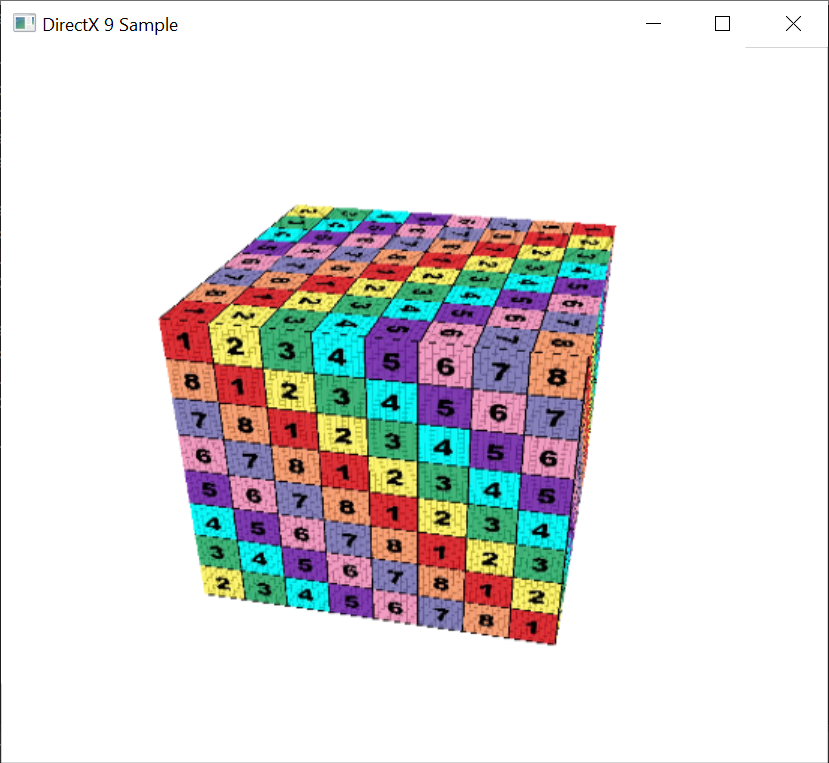
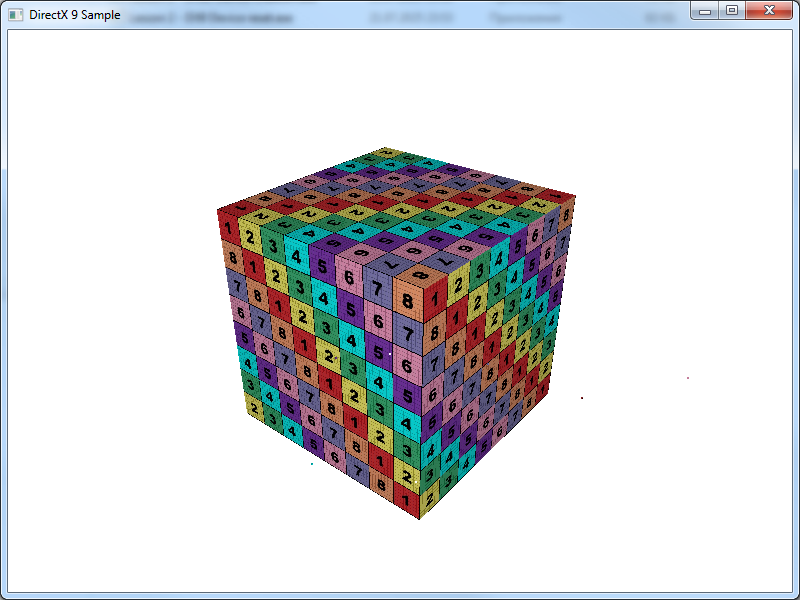
Improvements

diff --git a/Samples/DirectX/DirectX 9/Lesson 6 - DX9 Shaders/DX9_shaders.cpp b/Samples/DirectX/DirectX 9/Lesson 6 - DX9 Shaders/DX9_shaders.cpp
@@ -202,9 +202,11 @@ LRESULT CALLBACK WindowProcedure(HWND hWnd, UINT message, WPARAM wParam, LPARAM 
     case WM_SIZE:
         if (wParam == SIZE_MINIMIZED)
             return 0;
+
         g_bNeedResizeWindow = true;
         g_ScreenResizeWidth = (UINT)LOWORD(lParam); // Queue resize
         g_ScreenResizeHeight = (UINT)HIWORD(lParam);
+
         return 0;
     }
 
@@ -234,76 +236,85 @@ void CreateLogWindow()
 void CreateMainWindow(HINSTANCE hInstance)
 {
     // Register the window class 
-    // (For correct work turn off worldwide and unicode symbols using 
-    // in VS project settings)
-    LPCSTR window_class_name = (LPCSTR)"DirectXSampleWindowClass";
-    LPCSTR window_name = (LPCSTR)"DirectX 9 Sample";
+    // (Ensure to configure project settings correctly to avoid issues with 
+    // worldwide and Unicode symbols in Visual Studio)
+    LPCSTR window_class_name = (LPCSTR)"DirectXSampleWindowClass"; // Define a name for the window class.
+    LPCSTR window_name = (LPCSTR)"DirectX 9 Sample";               // Define a title for the window.
 
-    WNDCLASS WindClass = {};
-    WindClass.lpfnWndProc = WindowProcedure;           // Set the window procedure
-    WindClass.hInstance = hInstance;                   // Handle to the application instance
-    WindClass.lpszClassName = window_class_name;       // Name of the window class
-    WindClass.hCursor = LoadCursor(NULL, IDC_ARROW);   // Default cursor
+    // Initialize a WNDCLASS structure to define the window
+    WNDCLASS WindClass = {}; // Use default initialization to zero out the struct.
+    WindClass.lpfnWndProc = WindowProcedure;         // Specify the function to handle window messages.
+    WindClass.hInstance = hInstance;                 // Store the application instance handle.
+    WindClass.lpszClassName = window_class_name;     // Set the name of the window class.
+    WindClass.hCursor = LoadCursor(NULL, IDC_ARROW); // Load the default arrow cursor.
 
-    // Register the window class
-    std::cout << "Window class registering \n";
-    RegisterClass(&WindClass);
+    // Register the window class with the operating system
+    std::cout << "Window class registering \n";       // Output message indicating registration process.
+    RegisterClass(&WindClass);                        // Call Windows API to register the defined window class.
 
-    // Create the window
-    g_Window = CreateWindowEx( NULL,                       // Optional window styles
-                               window_class_name,          // Window class
-                               window_name,                // Window text
-                               WS_OVERLAPPEDWINDOW,        // Window style
-                               CW_USEDEFAULT,              // Position X
-                               CW_USEDEFAULT,              // Position Y
-                               g_ScreenHeight,             // Size X
-                               g_ScreenWidth,              // Size Y
-                               NULL,                       // Parent window
-                               NULL,                       // Menu
-                               WindClass.hInstance,        // Instance handle
-                               NULL );                     // Additional application data
+    // Create the main application window
+    g_Window = CreateWindowEx(
+        NULL,                                          // Optional window styles (default)
+        window_class_name,                             // Name of the registered window class
+        window_name,                                   // Title text displayed in the window
+        WS_OVERLAPPEDWINDOW,                           // Window style (overlapped window with borders)
+        CW_USEDEFAULT,                                 // Default x position on screen
+        CW_USEDEFAULT,                                 // Default y position on screen
+        g_ScreenHeight,                                // Width of the window
+        g_ScreenWidth,                                 // Height of the window
+        NULL,                                          // Handle to parent window (no parent)
+        NULL,                                          // Handle to menu (no menu)
+        WindClass.hInstance,                           // Instance handle from the registered class
+        NULL);                                         // Additional application data (none)
 
+    // Check if the window was created successfully
     if (g_Window == NULL)
     {
-        // If the window creation failed, exit
+        // If the window creation failed, show an error message and set a flag to close the application
         MessageBox(NULL, "Error in window creating procedure", "DX9 Sample.exe", MB_OK);
-        g_bNeedCloseApplication = true;
+        g_bNeedCloseApplication = true; // Flag to signal that the application should close.
     }
 
-    std::cout << "Window created successfully \n";
+    std::cout << "Window created successfully \n"; // Output message indicating successful window creation.
 
-    // Show the window 
-    // (You need turn subsystem to Windows (/SUBSYSTEM:WINDOWS) 
-    // in VS project settings for this)
-    ShowWindow(g_Window, SW_SHOW);
+    // Show the newly created window
+    // (Make sure to set the subsystem to Windows (/SUBSYSTEM:WINDOWS) in Visual Studio project settings)
+    ShowWindow(g_Window, SW_SHOW); // Display the window with the specified command to show it.
 }
 ///////////////////////////////////////////////////////////////
 void CreateDirect3D()
 {
-    std::cout << "Creating Direct3D 9 \n";
-    g_Direct3D = Direct3DCreate9(D3D_SDK_VERSION);
+    std::cout << "Creating Direct3D 9 \n"; // Output a message indicating that Direct3D 9 is being created.
+    
+    // Initialize Direct3D COM object
+    g_Direct3D = Direct3DCreate9(D3D_SDK_VERSION); // Create a Direct3D object based on the SDK version specified.
 
+    // Zero out the structure to ensure all fields are initialized to zero
     ZeroMemory(&g_Direct3DPresentationParams, sizeof(g_Direct3DPresentationParams));
-    g_Direct3DPresentationParams.Windowed = TRUE;
-    g_Direct3DPresentationParams.SwapEffect = D3DSWAPEFFECT_DISCARD;
-    g_Direct3DPresentationParams.BackBufferFormat = D3DFMT_X8R8G8B8;
-    g_Direct3DPresentationParams.EnableAutoDepthStencil = TRUE;
-    g_Direct3DPresentationParams.AutoDepthStencilFormat = D3DFMT_D24X8;
+    
+    // Set presentation parameters for the Direct3D device
+    g_Direct3DPresentationParams.Windowed = TRUE; // Run in windowed mode (not fullscreen).
+    g_Direct3DPresentationParams.SwapEffect = D3DSWAPEFFECT_DISCARD; // Indicates how to handle buffers when presenting.
+    g_Direct3DPresentationParams.BackBufferFormat = D3DFMT_X8R8G8B8; // Set the back buffer format to 32-bit RGB (with no alpha).
+    g_Direct3DPresentationParams.EnableAutoDepthStencil = TRUE; // Enable automatic depth buffering.
+    g_Direct3DPresentationParams.AutoDepthStencilFormat = D3DFMT_D24X8; // Set the depth buffer format to a 24-bit depth and 8 bits for stencil.
 
-    // Result value for handle function execution result
-    HRESULT result = E_FAIL;
+    // Result value for handling function execution result
+    HRESULT result = E_FAIL; // Initialize 'result' to E_FAIL which indicates failure by default.
 
-    // Create the device
-    std::cout << "Creating Direct3D 9 Device \n";
-    result = g_Direct3D->CreateDevice( D3DADAPTER_DEFAULT,
-                                       D3DDEVTYPE_HAL,
-                                       g_Window, // Pass the window handle here
-                                       D3DCREATE_HARDWARE_VERTEXPROCESSING,
-                                       &g_Direct3DPresentationParams,
-                                       &g_Direct3DDevice );
+    // Create the Direct3D device
+    std::cout << "Creating Direct3D 9 Device \n"; // Output a message indicating that the Direct3D device is being created.
+    
+    // Call CreateDevice to create a new Direct3D device
+    result = g_Direct3D->CreateDevice( D3DADAPTER_DEFAULT,                  // Use the default adapter (usually the primary display).
+                                       D3DDEVTYPE_HAL,                      // Use HAL (Hardware Abstraction Layer) device.
+                                       g_Window,                            // Pass the window handle where the device will render.
+                                       D3DCREATE_HARDWARE_VERTEXPROCESSING, // Specify hardware vertex processing for better performance.
+                                       &g_Direct3DPresentationParams,       // Provide the previously configured presentation parameters.
+                                       &g_Direct3DDevice );                 // Output the created device to this variable.
 
-    // Handle device creation failure (add your error handling here)
-    Assert(FAILED(result), "Error in Direct3D 9 Device creating procedure");
+    // Handle device creation failure
+    Assert(FAILED(result), "Error in Direct3D 9 Device creating procedure"); // Assert if device creation failed, outputting an error message.
 }
 ///////////////////////////////////////////////////////////////
 void LoadTextures()
@@ -320,65 +331,75 @@ void LoadTextures()
 void CompileShaders()
 {
     // Result value for handle function execution result
-    HRESULT result = E_FAIL;
+    HRESULT result = E_FAIL; // Initialize 'result' to E_FAIL, indicative of failure.
 
-    ID3DXBuffer* ErrorBuffer = NULL;
+    ID3DXBuffer* ErrorBuffer = NULL; // Buffer to hold any compilation errors.
 
     // Vertex shader
-    ID3DXBuffer* VertexShaderBuffer = NULL;
-    std::string ObjectShaderPath = (std::string)"shader.txt";
-    std::cout << "Compiling vertex shader \n";
-    result = D3DXCompileShaderFromFile( ObjectShaderPath.c_str(),
-                                        nullptr,
-                                        nullptr,
-                                        "VSMain",
-                                        "vs_3_0",
-                                        NULL,
-                                        &VertexShaderBuffer,
-                                        &ErrorBuffer,
-                                        &g_VertexShaderConstantTable );
+    ID3DXBuffer* VertexShaderBuffer = NULL; // Buffer to hold compiled vertex shader.
+    std::string ShaderFilePath = (std::string)"shader.txt"; // Path to the shader source file.
+    std::cout << "Compiling vertex shader \n"; // Output message indicating the start of vertex shader compilation.
+    
+    // Compile the vertex shader from file
+    result = D3DXCompileShaderFromFile( ShaderFilePath.c_str(),         // Path to the shader source
+                                        nullptr,                        // No defines needed
+                                        nullptr,                        // No include handler needed
+                                        "VSMain",                       // Entry point for the vertex shader
+                                        "vs_3_0",                       // Shader model (version)
+                                        NULL,                           // No flags specified
+                                        &VertexShaderBuffer,            // Output buffer for compiled shader
+                                        &ErrorBuffer,                   // Output buffer for any errors
+                                        &g_VertexShaderConstantTable ); // Constant table for the vertex shader
 
+    // Check for compilation errors in the vertex shader
     if (ErrorBuffer)
     {
-        std::cout << "Vertex shader error \n";
-        std::cout << (char*)ErrorBuffer->GetBufferPointer();
-        std::cout << "\n";
+        std::cout << "Vertex shader error \n"; // Indicate an error occurred during compilation.
+        std::cout << (char*)ErrorBuffer->GetBufferPointer(); // Output the error message.
+        std::cout << "\n"; // New line for better readability.
     }
 
+    // If the compilation failed, handle the error
     if (FAILED(result))
     {
-        MakeErrorMessage((char*)ErrorBuffer->GetBufferPointer());
-        ErrorBuffer->Release();
+        MakeErrorMessage((char*)ErrorBuffer->GetBufferPointer()); // Show a detailed error message.
+        ErrorBuffer->Release(); // Release the error buffer to avoid memory leaks.
     }
 
+    // Create the vertex shader object from the compiled buffer
     g_Direct3DDevice->CreateVertexShader((DWORD*)VertexShaderBuffer->GetBufferPointer(), &g_VertexShader);
 
     // Pixel shader
-    ID3DXBuffer* PixelShaderBuffer = NULL;
-    std::cout << "Compiling pixel shader \n";
-    result = D3DXCompileShaderFromFile( ObjectShaderPath.c_str(),
-                                        nullptr,
-                                        nullptr,
-                                        "PSMain",
-                                        "ps_3_0",
-                                        NULL,
-                                        &PixelShaderBuffer,
-                                        &ErrorBuffer,
-                                        &g_PixelShaderConstantTable );
+    ID3DXBuffer* PixelShaderBuffer = NULL; // Buffer to hold compiled pixel shader.
+    std::cout << "Compiling pixel shader \n"; // Output message indicating the start of pixel shader compilation.
+    
+    // Compile the pixel shader from file
+    result = D3DXCompileShaderFromFile( ShaderFilePath.c_str(),         // Path to the same shader source
+                                        nullptr,                        // No defines needed
+                                        nullptr,                        // No include handler needed
+                                        "PSMain",                       // Entry point for the pixel shader
+                                        "ps_3_0",                       // Shader model (version)
+                                        NULL,                           // No flags specified
+                                        &PixelShaderBuffer,             // Output buffer for compiled shader
+                                        &ErrorBuffer,                   // Output buffer for any errors
+                                        &g_PixelShaderConstantTable );  // Constant table for the pixel shader
 
+    // Check for compilation errors in the pixel shader
     if (ErrorBuffer)
     {
-        std::cout << "Pixel shader error \n";
-        std::cout << (char*)ErrorBuffer->GetBufferPointer();
-        std::cout << "\n";
+        std::cout << "Pixel shader error \n"; // Indicate an error occurred during compilation.
+        std::cout << (char*)ErrorBuffer->GetBufferPointer(); // Output the error message.
+        std::cout << "\n"; // New line for better readability.
     }
 
+    // If the compilation failed, handle the error
     if (FAILED(result))
     {
-        MakeErrorMessage((char*)ErrorBuffer->GetBufferPointer());
-        ErrorBuffer->Release();
+        MakeErrorMessage((char*)ErrorBuffer->GetBufferPointer()); // Show a detailed error message.
+        ErrorBuffer->Release(); // Release the error buffer to avoid memory leaks.
     }
 
+    // Create the pixel shader object from the compiled buffer
     g_Direct3DDevice->CreatePixelShader((DWORD*)PixelShaderBuffer->GetBufferPointer(), &g_PixelShader);
 }
 ///////////////////////////////////////////////////////////////
@@ -398,19 +419,21 @@ void CreateGeometry()
     UINT VertexBufferSize = (UINT)VertexDataSize * VertecesCount; // Total size required for the vertex buffer
 
     // Create the vertex buffer in managed memory pool with specified parameters
-    g_Direct3DDevice->CreateVertexBuffer(VertexBufferSize, // Size of the vertex buffer
+    g_Direct3DDevice->CreateVertexBuffer( VertexBufferSize, // Size of the vertex buffer
                                           NULL,             // Usage flag (default)
                                           VERTEXFVF,        // Flexible Vertex Format (defines the layout of the vertex data)
                                           D3DPOOL_MANAGED,  // Memory pool type (managed by Direct3D)
                                           &g_VertexBuffer,  // Pointer to the created vertex buffer
-                                          NULL);            // Handle to the resource (not needed here)
+                                          NULL );           // Handle to the resource (not needed here)
 
     // Result variable to check success/failure of operations
     HRESULT result = E_FAIL;
 
     // Fill the vertex buffer with data
     VERTEX_DATA* VerticesData; // Pointer to hold vertex data during locking
+
     std::cout << "Locking vertex buffer \n"; // Indicating that we're about to fill the buffer
+
     // Lock the vertex buffer to gain access to write data into it
     result = g_VertexBuffer->Lock(NULL, sizeof(VerticesData), (void**)&VerticesData, NULL);
 
@@ -575,12 +598,11 @@ void UpdateTransformMatrices()
     g_VertexShaderConstantTable->SetMatrix(g_Direct3DDevice, "matProjection", &matProjection);
 
     //-- WorldView Matrix --//
-    // The WorldView Matrix combines the Worldand View matrices.
+    // The WorldView Matrix combines the World and View matrices.
     // It transforms coordinates from object space to view space.
     // This matrix is formed by multiplying the World matrix by the View matrix :
     D3DXMATRIX matWorldView;
     matWorldView = matWorld * matView;
-    D3DXMATRIX matWorldViewTransposed;
     g_VertexShaderConstantTable->SetMatrix(g_Direct3DDevice, "matWorldView", &matWorldView);
 
     //-- WorldViewProjection Matrix --//
@@ -588,7 +610,6 @@ void UpdateTransformMatrices()
     // It transforms coordinates from object space directly to clip space in a single operation :
     D3DXMATRIX matWorldViewProjection;
     matWorldViewProjection = matWorld * matView * matProjection;
-    D3DXMATRIX matWorldViewProjectionTransposed;
     g_VertexShaderConstantTable->SetMatrix(g_Direct3DDevice, "matWorldViewProjection", &matWorldViewProjection);
 }
 ///////////////////////////////////////////////////////////////

diff --git a/Samples/DirectX/DirectX 9/Lesson 3 - DX9 Triangle rendering/DX9_triangle_sample.cpp b/Samples/DirectX/DirectX 9/Lesson 3 - DX9 Triangle rendering/DX9_triangle_sample.cpp
@@ -32,6 +32,9 @@ HWND g_Window = nullptr;
 bool g_bDeviceLost = false;
 bool g_bNeedReset = false;
 
+int g_ScreenHeight = 1024;
+int g_ScreenWidth = 1024;
+
 int g_ResizeHeight = 0;
 int g_ResizeWidth = 0;
 ///////////////////////////////////////////////////////////////
@@ -114,10 +117,13 @@ INT WINAPI wWinMain(HINSTANCE hInstance, HINSTANCE, LPWSTR, INT)
         window_class_name,          // Window class
         window_name,                // Window text
         WS_OVERLAPPEDWINDOW,        // Window style
-        CW_USEDEFAULT, CW_USEDEFAULT, CW_USEDEFAULT, CW_USEDEFAULT, // Size and position
+        CW_USEDEFAULT,              // Position X
+        CW_USEDEFAULT,              // Position Y
+        g_ScreenHeight,             // Size X
+        g_ScreenWidth,              // Size Y
         NULL,                       // Parent window
         NULL,                       // Menu
-        hInstance,                  // Instance handle
+        WindClass.hInstance,        // Instance handle
         NULL                        // Additional application data
     );
 
@@ -267,8 +273,8 @@ INT WINAPI wWinMain(HINSTANCE hInstance, HINSTANCE, LPWSTR, INT)
         // Handle window resize (we don't resize directly in the WM_SIZE handler)
         if (g_ResizeWidth != 0 && g_ResizeHeight != 0)
         {
-            Direct3DPresentationParams.BackBufferWidth = g_ResizeWidth;
-            Direct3DPresentationParams.BackBufferHeight = g_ResizeHeight;
+            Direct3DPresentationParams.BackBufferWidth = g_ScreenWidth = g_ResizeWidth;
+            Direct3DPresentationParams.BackBufferHeight = g_ScreenHeight = g_ResizeHeight;
             g_ResizeWidth = g_ResizeHeight = 0;
             g_bNeedReset = true;
         }

diff --git a/Samples/SDL/SDL Input Example/SDL_input_example.cpp b/Samples/SDL/SDL Input Example/SDL_input_example.cpp
@@ -100,6 +100,12 @@ INT WINAPI wWinMain(HINSTANCE hInstance, HINSTANCE, LPWSTR, INT)
         if (Input->GamepadButtonPressed(SDL_CONTROLLER_BUTTON_B))
             std::cout << "Gamepad B button pressed \n";
 
+        if (Input->KeyPressed(SDL_SCANCODE_ESCAPE))
+        {
+            std::cout << "Escape key pressed - closing application \n";
+            running = false;
+        }
+
         // Get left stick angle value in interval {-1; 1}
         float LeftStickX, LeftStickY = NULL;
         Input->GamepadGetLeftStick(LeftStickX, LeftStickY);
